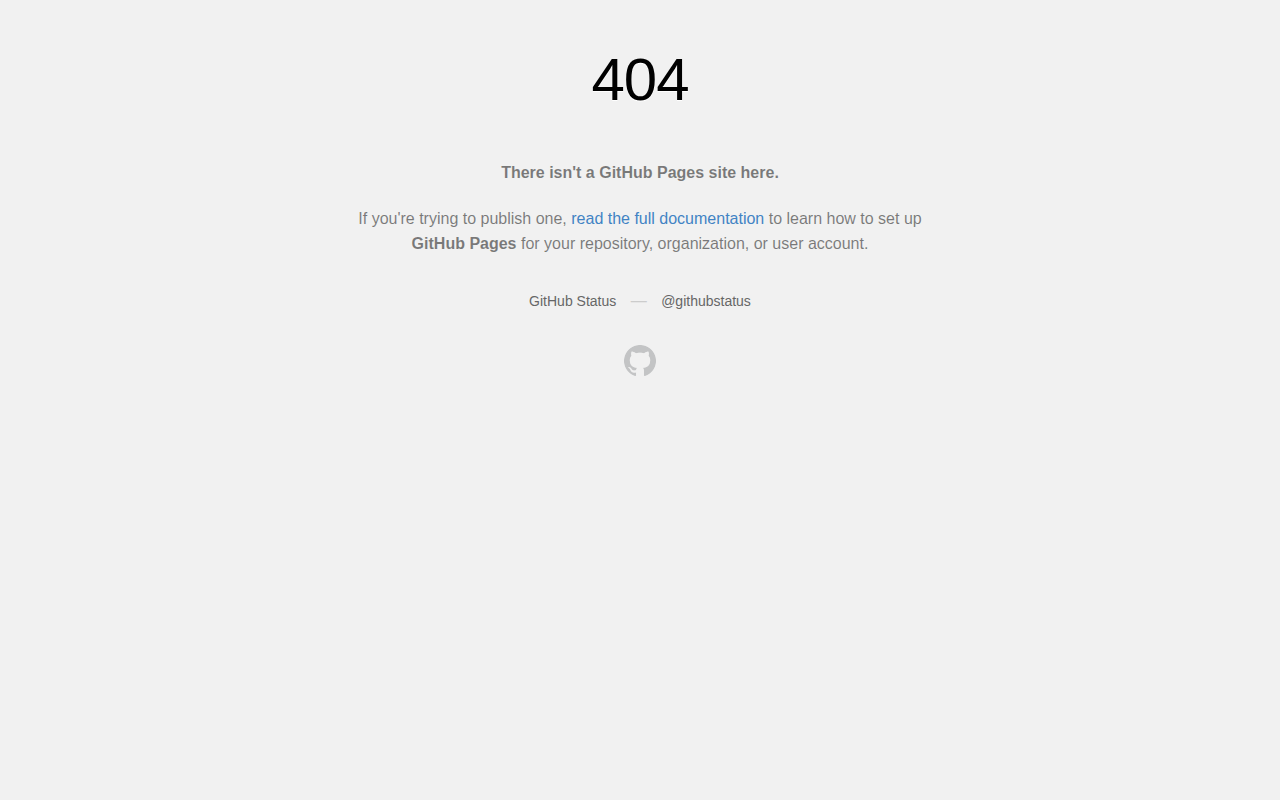
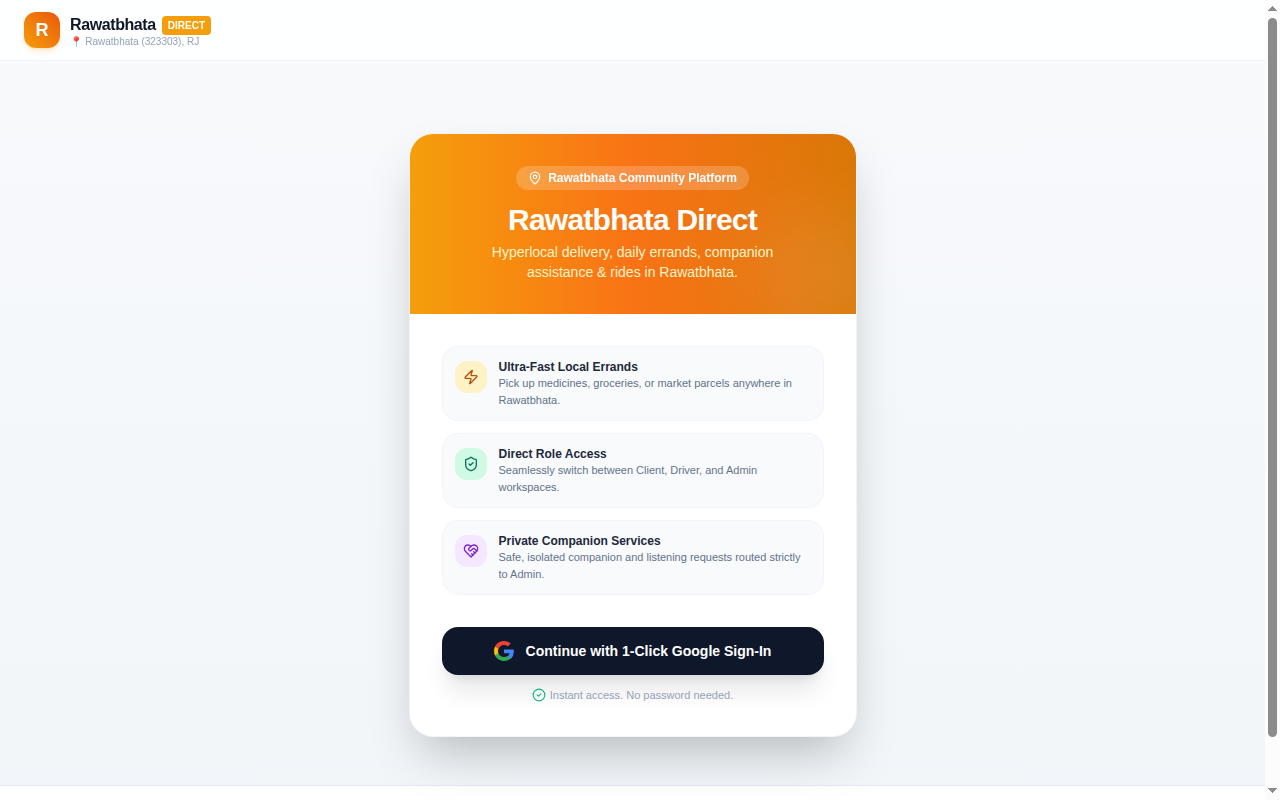
docs: replace 404 image with real live Vercel UI screenshot and add live web app links

diff --git a/README.md b/README.md
@@ -7,6 +7,15 @@
 [![Firebase](https://img.shields.io/badge/Firebase-Firestore-FFA611?style=for-the-badge&logo=firebase)](https://firebase.google.com/)
 [![Capacitor](https://img.shields.io/badge/Capacitor-Mobile_Hybrid-119EFF?style=for-the-badge&logo=capacitor)](https://capacitorjs.com/)
 
+<br/>
+
+[![Live Production Web App](https://img.shields.io/badge/🌐_Live_Platform-rawatbhata--hyperlocal.vercel.app-00C853?style=for-the-badge&logo=vercel&logoColor=white)](https://rawatbhata-hyperlocal.vercel.app)
+[![Telegram Support](https://img.shields.io/badge/💬_Telegram-@the__musafir-0088cc?style=for-the-badge&logo=telegram&logoColor=white)](https://t.me/the_musafir)
+
+<br/>
+
+[⭐ Star This Repo](https://github.com/themusafirr/hyperlocal-community-portal) • [🌐 Live Web App](https://rawatbhata-hyperlocal.vercel.app) • [💬 Contact Developer](https://t.me/the_musafir)
+
 > **A turnkey, production-ready Hyperlocal On-Demand Services, Local Business Directory, and Community Marketplace platform.** Built with Next.js 14, Tailwind CSS glassmorphism, Firebase Firestore, and Capacitor for seamless Web, PWA, and Native Android deployment.
 
 
